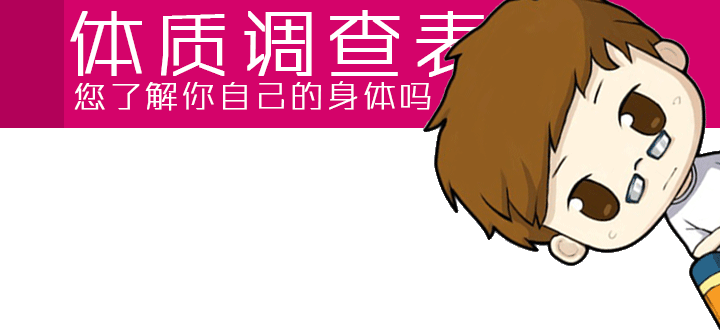
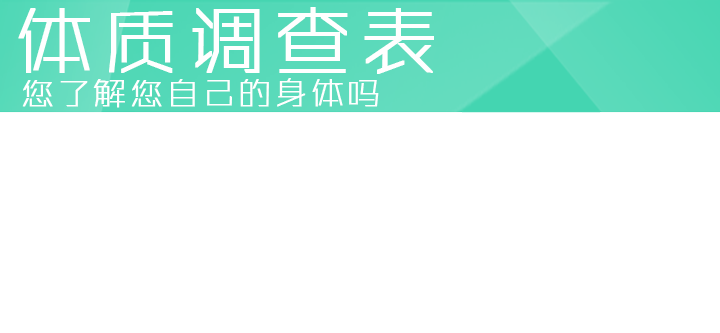
金额修复

diff --git a/Addons/GuoGuoUser/View/default/Public/css/questionary.css b/Addons/GuoGuoUser/View/default/Public/css/questionary.css
@@ -32,6 +32,7 @@ body{
 	height: 100%;
 }
 .q-top-return{
+	display:none;
 	position: absolute;
 	top: 1.2%;
 	left: 2%;
@@ -62,7 +63,7 @@ body{
 }
 span{
     /*font-family:minijianyaya67562;*/
-	font-family: font_01;
+	font-family:HanWangYenThin-Gb571063;
 }
 .q-u{
 	width: 100%;
@@ -128,7 +129,7 @@ span{
 
 .q-time p{
 	
-	color: #d30469;
+	color: #44d5b1;
 	font-size: 1rem;
 	text-align: center;
 	white-space: nowrap;

diff --git a/Addons/GuoGuoUser/View/default/Public/js/questionary.js b/Addons/GuoGuoUser/View/default/Public/js/questionary.js
@@ -44,7 +44,7 @@ $(function(){
 		t_body = $('.q-time-body'),					            //进度条中间
 		t_bottom = $('.q-time-bottom'),				            //进度条底部
 		color_bg = 'white',										//背景颜色
-		color_show = '#d30469';									//填充颜色
+		color_show = '#44d5b1';									//填充颜色
 
 	$('.q-time').css('color','red');
 	t_top.css('background-color',color_bg);

diff --git a/wxpay/js_api_call.php b/wxpay/js_api_call.php
@@ -48,7 +48,7 @@ $newMoney = $_SESSION['gguser_money']*100;
 	$timeStamp = time();
 	$out_trade_no = WxPayConf_pub::APPID."$timeStamp";
 	$unifiedOrder->setParameter("out_trade_no","$out_trade_no");//商户订单号 
-	$unifiedOrder->setParameter("total_fee","1");//总金额
+	$unifiedOrder->setParameter("total_fee","{$newMoney}");//总金额
 	$unifiedOrder->setParameter("notify_url",WxPayConf_pub::NOTIFY_URL);//通知地址 
 	$unifiedOrder->setParameter("trade_type","JSAPI");//交易类型
 	//非必填参数，商户可根据实际情况选填
